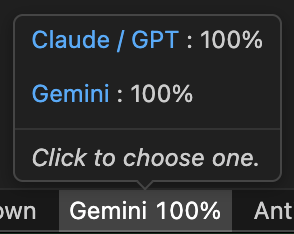
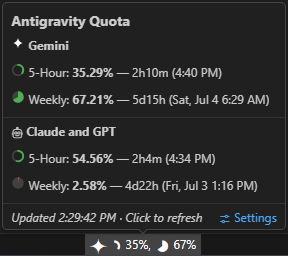
minor touchup

diff --git a/README-ko.md b/README-ko.md
@@ -5,7 +5,7 @@
 100% 로컬 프라이버시를 보장하는 초경량 **(~30 KB)** 상태 표시줄 확장 프로그램입니다. Antigravity AI 모델의 사용량(Quota)을 클릭 없이 한눈에 모니터링할 수 있습니다. 외부 네트워크 호출, OAuth 인증, 백그라운드 프로세스가 전혀 없습니다.
 
 <p align="center">
-  <img src="dev.coramdeo_profile.png" alt="My Antigravity Usage Icon" width="128">
+  <img src="logo.png" alt="My Antigravity Usage Icon" width="128">
 </p>
 
 ## 📸 미리보기

diff --git a/README.md b/README.md
@@ -5,7 +5,7 @@
 100% local and private. An ultra-lightweight **(~30 KB)** status bar extension that monitors your Antigravity AI model quota at a glance. No external network calls, no OAuth flows, no background processes.
 
 <p align="center">
-  <img src="dev.coramdeo_profile.png" alt="My Antigravity Usage Icon" width="128">
+  <img src="logo.png" alt="My Antigravity Usage Icon" width="128">
 </p>
 
 ## 📸 Preview